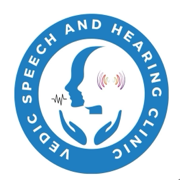
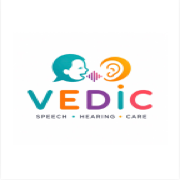
theme updates

diff --git a/team.html b/team.html
@@ -16,7 +16,7 @@
     <meta property="og:url" content="https://vedicspeechhearing.com/team.html">
     <meta property="og:title" content="Our Specialists | Vedic Speech & Hearing Clinic">
     <meta property="og:description" content="Meet the expert team of speech therapists, occupational therapists, and audiologists at Vedic Speech and Hearing Clinic in Bangalore.">
-    <meta property="og:image" content="https://vedicspeechhearing.com/logo-optimized.png">
+    <meta property="og:image" content="https://vedicspeechhearing.com/logo-optimized.png?v=2">
     <meta property="og:site_name" content="Vedic Speech Therapy & Hearing Care Clinic">
     <meta property="og:locale" content="en_IN">
 
@@ -25,7 +25,7 @@
     <meta name="twitter:url" content="https://vedicspeechhearing.com/team.html">
     <meta name="twitter:title" content="Our Specialists | Vedic Speech & Hearing Clinic">
     <meta name="twitter:description" content="Meet the expert team of speech therapists, occupational therapists, and audiologists at Vedic Speech and Hearing Clinic in Bangalore.">
-    <meta name="twitter:image" content="https://vedicspeechhearing.com/logo-optimized.png">
+    <meta name="twitter:image" content="https://vedicspeechhearing.com/logo-optimized.png?v=2">
 
     <!-- Icons -->
     <link rel="icon" type="image/png" sizes="96x96" href="favicon-96x96.png">
@@ -87,7 +87,7 @@
         <div class="container header-container">
             <div class="logo">
                 <a href="index.html" style="display: flex; align-items: center; gap: 12px;">
-                    <img src="logo-optimized.png" alt="Vedic Speech Therapy and Hearing Care Clinic Logo" id="clinic-logo">
+                    <img src="logo-optimized.png?v=2" alt="Vedic Speech Therapy and Hearing Care Clinic Logo" id="clinic-logo">
                     <div class="logo-text">
                         <span class="logo-title-1">Vedic Speech Therapy</span>
                         <span class="logo-title-2">& Hearing Care Clinic</span>
@@ -274,8 +274,8 @@
                 <h3>Vedic Speech Therapy and Hearing Care Clinic</h3>
                 <p>Dedicated to helping you hear better and speak clearer.</p>
                 <div class="social-links">
-                    <a href="#" target="_blank" aria-label="Instagram"><i class="fab fa-instagram"></i></a>
-                    <a href="#" target="_blank" aria-label="LinkedIn"><i class="fab fa-linkedin-in"></i></a>
+                    <a href="https://www.instagram.com/vedicspeechandhearingclinic?igsh=MXV1OTAyaDB2bnJuYw==" target="_blank" aria-label="Instagram"><i class="fab fa-instagram"></i></a>
+                    <a href="https://www.linkedin.com/company/vedic-speech-therapy-hearing-care-clinic" target="_blank" aria-label="LinkedIn"><i class="fab fa-linkedin-in"></i></a>
                     <a href="mailto:vedicspeechandhearingclinic@gmail.com" aria-label="Email"><i class="fas fa-envelope"></i></a>
                 </div>
             </div>

diff --git a/index.html b/index.html
@@ -46,7 +46,7 @@
       "@type": "MedicalClinic",
       "name": "Vedic Speech Therapy and Hearing Care Clinic",
       "url": "https://vedicspeechhearing.com/",
-      "logo": "https://vedicspeechhearing.com/logo-optimized.png",
+      "logo": "https://vedicspeechhearing.com/logo-optimized.png?v=2",
       "image": "https://vedicspeechhearing.com/hero_clinic.png",
       "description": "Expert speech therapy and hearing care in Bangalore. Vedic Clinic offers tailored treatments for speech, language, and hearing disorders for all ages.",
       "telephone": "+919916049099",
@@ -107,7 +107,7 @@
         <div class="container header-container">
             <div class="logo">
                 <a href="index.html" style="display: flex; align-items: center; gap: 12px;">
-                    <img src="logo-optimized.png" alt="Vedic Speech Therapy and Hearing Care Clinic Logo" id="clinic-logo">
+                    <img src="logo-optimized.png?v=2" alt="Vedic Speech Therapy and Hearing Care Clinic Logo" id="clinic-logo">
                     <div class="logo-text">
                         <span class="logo-title-1">Vedic Speech Therapy</span>
                         <span class="logo-title-2">& Hearing Care Clinic</span>
@@ -218,8 +218,8 @@
                 <h3>Vedic Speech Therapy and Hearing Care Clinic</h3>
                 <p>Dedicated to helping you hear better and speak clearer.</p>
                 <div class="social-links">
-                    <a href="#" target="_blank" aria-label="Instagram"><i class="fab fa-instagram"></i></a>
-                    <a href="#" target="_blank" aria-label="LinkedIn"><i class="fab fa-linkedin-in"></i></a>
+                    <a href="https://www.instagram.com/vedicspeechandhearingclinic?igsh=MXV1OTAyaDB2bnJuYw==" target="_blank" aria-label="Instagram"><i class="fab fa-instagram"></i></a>
+                    <a href="https://www.linkedin.com/company/vedic-speech-therapy-hearing-care-clinic" target="_blank" aria-label="LinkedIn"><i class="fab fa-linkedin-in"></i></a>
                     <a href="mailto:vedicspeechandhearingclinic@gmail.com" aria-label="Email"><i
                             class="fas fa-envelope"></i></a>
                 </div>

diff --git a/contact.html b/contact.html
@@ -96,7 +96,7 @@
         <div class="container header-container">
             <div class="logo">
                 <a href="index.html" style="display: flex; align-items: center; gap: 12px;">
-                    <img src="logo-optimized.png" alt="Vedic Speech Therapy and Hearing Care Clinic Logo" id="clinic-logo">
+                    <img src="logo-optimized.png?v=2" alt="Vedic Speech Therapy and Hearing Care Clinic Logo" id="clinic-logo">
                     <div class="logo-text">
                         <span class="logo-title-1">Vedic Speech Therapy</span>
                         <span class="logo-title-2">& Hearing Care Clinic</span>
@@ -229,8 +229,8 @@
                 <h3>Vedic Speech Therapy and Hearing Care Clinic</h3>
                 <p>Dedicated to helping you hear better and speak clearer.</p>
                 <div class="social-links">
-                    <a href="#" target="_blank" aria-label="Instagram"><i class="fab fa-instagram"></i></a>
-                    <a href="#" target="_blank" aria-label="LinkedIn"><i class="fab fa-linkedin-in"></i></a>
+                    <a href="https://www.instagram.com/vedicspeechandhearingclinic?igsh=MXV1OTAyaDB2bnJuYw==" target="_blank" aria-label="Instagram"><i class="fab fa-instagram"></i></a>
+                    <a href="https://www.linkedin.com/company/vedic-speech-therapy-hearing-care-clinic" target="_blank" aria-label="LinkedIn"><i class="fab fa-linkedin-in"></i></a>
                     <a href="mailto:vedicspeechandhearingclinic@gmail.com" aria-label="Email"><i class="fas fa-envelope"></i></a>
                 </div>
             </div>

diff --git a/services.html b/services.html
@@ -83,7 +83,7 @@
         <div class="container header-container">
             <div class="logo">
                 <a href="index.html" style="display: flex; align-items: center; gap: 12px;">
-                    <img src="logo-optimized.png" alt="Vedic Clinic Logo" id="clinic-logo">
+                    <img src="logo-optimized.png?v=2" alt="Vedic Clinic Logo" id="clinic-logo">
                     <div class="logo-text">
                         <span class="logo-title-1">Vedic Speech Therapy</span>
                         <span class="logo-title-2">& Hearing Care Clinic</span>
@@ -359,8 +359,8 @@
                 <h3>Vedic Speech Therapy and Hearing Care Clinic</h3>
                 <p>Dedicated to helping you hear better and speak clearer.</p>
                 <div class="social-links">
-                    <a href="#" target="_blank" aria-label="Instagram"><i class="fab fa-instagram"></i></a>
-                    <a href="#" target="_blank" aria-label="LinkedIn"><i class="fab fa-linkedin-in"></i></a>
+                    <a href="https://www.instagram.com/vedicspeechandhearingclinic?igsh=MXV1OTAyaDB2bnJuYw==" target="_blank" aria-label="Instagram"><i class="fab fa-instagram"></i></a>
+                    <a href="https://www.linkedin.com/company/vedic-speech-therapy-hearing-care-clinic" target="_blank" aria-label="LinkedIn"><i class="fab fa-linkedin-in"></i></a>
                     <a href="mailto:vedicspeechandhearingclinic@gmail.com" aria-label="Email"><i class="fas fa-envelope"></i></a>
                 </div>
             </div>

diff --git a/style.css b/style.css
@@ -1,13 +1,13 @@
 /* Design System & Variables */
 :root {
-    /* Color Palette - White and Sky Blue mix */
-    --primary-color: #0288d1; /* Strong sky blue for main actions */
-    --primary-light: #e1f5fe; /* Very light sky blue for backgrounds */
-    --secondary-color: #03a9f4; /* Medium sky blue for highlights */
+    /* Color Palette - Teal and Orange mix */
+    --primary-color: #04A4AC; /* Teal for main actions */
+    --primary-light: #E6F6F7; /* Very light teal for backgrounds */
+    --secondary-color: #FA8902; /* Orange for highlights/accents */
     --text-dark: #333333; /* Dark text for readability */
     --text-light: #666666; /* Lighter text for secondary info */
     --white: #ffffff;
-    --background-color: #f9fbfc; /* Slightly blue-tinted off-white */
+    --background-color: #f9fbfc; /* Slightly tinted off-white */
     
     /* Typography */
     --font-main: 'Inter', sans-serif;
@@ -116,9 +116,11 @@ h1, h2, h3, h4 {
 }
 
 .logo img {
-    height: 50px; /* Reduced slightly to fit text nicely */
-    border-radius: 50%; /* the provided logo seems circular */
-    box-shadow: 0 2px 8px rgba(0,0,0,0.1);
+    height: auto;
+    max-height: 65px;
+    width: auto;
+    max-width: 100%;
+    object-fit: contain;
     flex-shrink: 0;
 }
 
